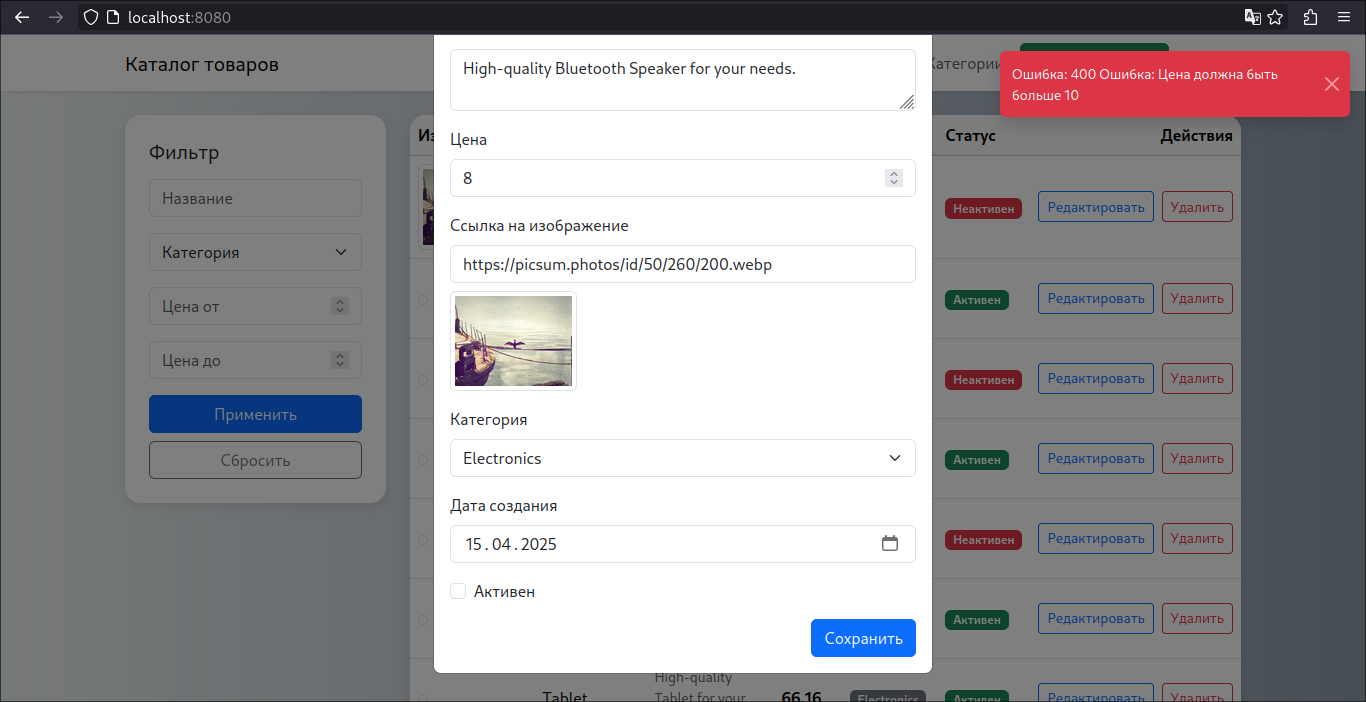
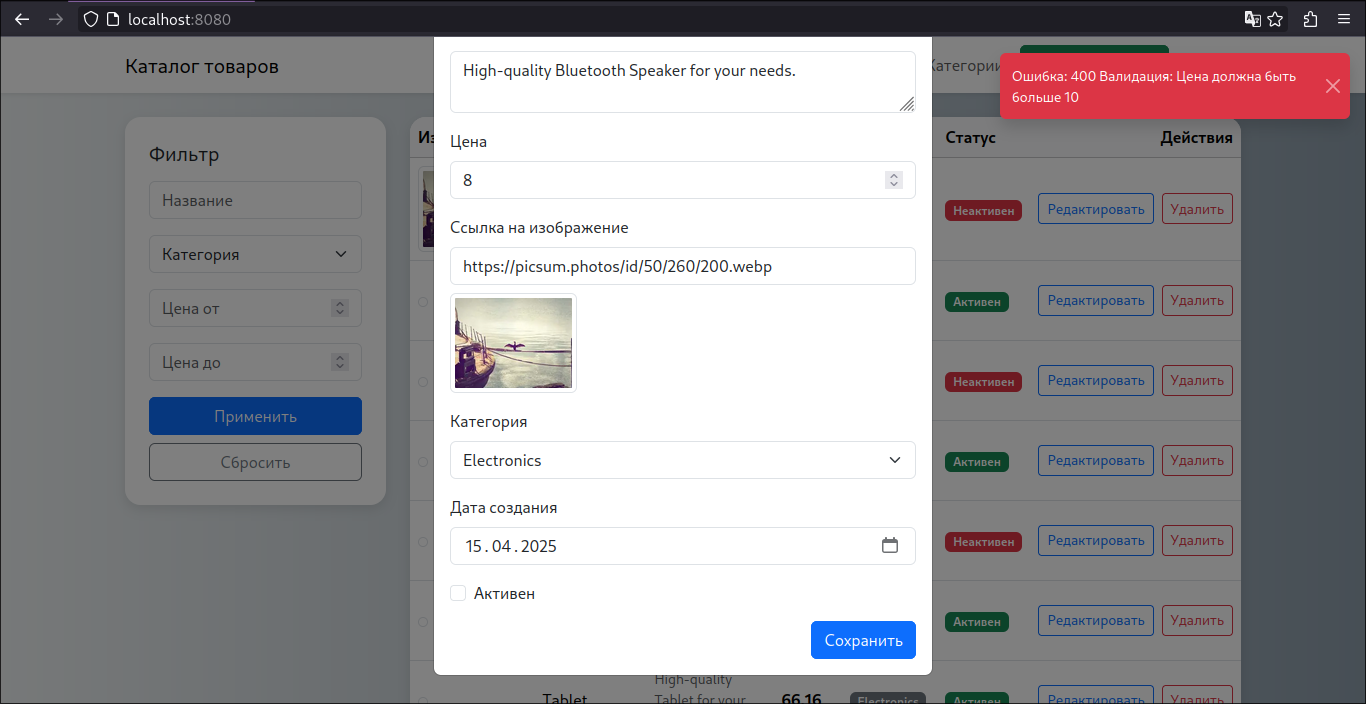
Иизменил описание ошибки при валидации

diff --git a/src/main/java/io/github/artemnefedov/rstech/controller/ControllerAdvice.java b/src/main/java/io/github/artemnefedov/rstech/controller/ControllerAdvice.java
@@ -34,7 +34,7 @@ public class ControllerAdvice {
     @ExceptionHandler(MethodArgumentNotValidException.class)
     public Map<String, String> handleValidationException(MethodArgumentNotValidException e) {
         return Map.of("error",
-                "Ошибка: "
+                "Валидация: "
                         + e.getBindingResult().getFieldErrors().stream()
                         .map(FieldError::getDefaultMessage)
                         .collect(Collectors.joining(", "))

diff --git a/README.md b/README.md
@@ -151,8 +151,8 @@ credentials: `user`:`password`
 
 ### 400 Bad Request
 
-Ошибка при вализации dto
-![img_20.png](assets/img_20.png)
+Ошибка при валидации dto
+![img.png](assets/img_20.png)
 
 ### 500 Internal Server Error
 
